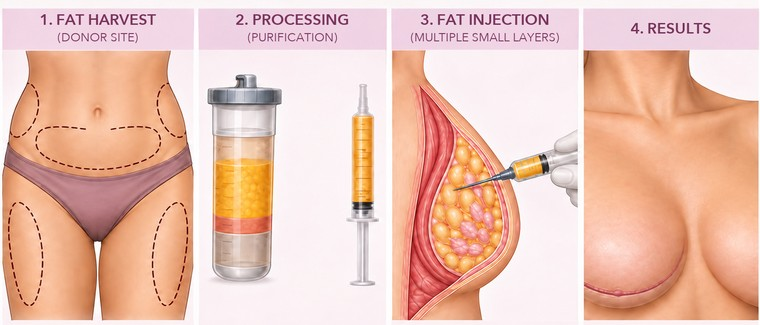
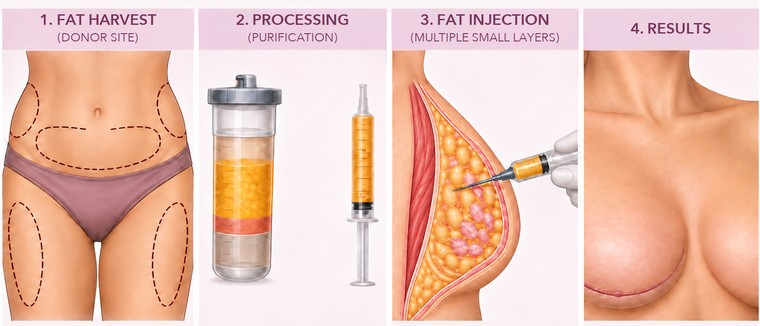
Rebuild fat grafting again: pectoral drawn as a layer, not a mass
The previous version drew the pectoral as a thick bulbous crescent
taking up a wedge of the chest, with the breast tissue squeezed into
the pocket left over. It is now a thin striated layer lying flat
against the chest wall, and the fat and glandular tissue fill the
breast properly down to the inframammary fold.

The slope correction from the last round survives: the skin band
measures a median of 10px against 9 before, with no bulge.

Geometry is unchanged again -- 1651x953, panels within a pixel of the
last file, bars still at y 24-114 -- so the headers were drawn by the
same code with no refitting. That is three regenerations in a row
holding the template, which makes this a cheap loop to keep running if
anything else needs redrawing.

All three wordless sources are kept and excluded from the deploy. Each
fixed something the one before it got wrong, so none of them is purely
superseded as a reference.

diff --git a/index.html b/index.html
@@ -2245,7 +2245,7 @@
           <button type="button" class="recon-back" data-panel="panel-recon">&lsaquo; All options</button>
           <h2>Fat Grafting / Lipofilling</h2>
           <div class="recon-art">
-            <img src="images/recon-fatgrafting.jpg" alt="Four stages: fat harvest from the abdomen and thighs, purification in a canister, injection into the breast, and the final result" loading="lazy" width="760" height="325" />
+            <img src="images/recon-fatgrafting.jpg" alt="Four stages: fat harvest from the abdomen and thighs, purification in a canister, injection into the breast, and the final result" loading="lazy" width="760" height="326" />
           </div>
           <p class="recon-body">Fat is taken from elsewhere by gentle liposuction, purified, and injected in small amounts to smooth contours and improve shape. Several sessions are often needed, because some of the transferred fat is reabsorbed naturally.</p>
           <p class="recon-src">Sources: <a href="https://www.cancer.gov/types/breast/treatment/surgery/breast-reconstruction" target="_blank" rel="noopener">National Cancer Institute</a>; <a href="https://www.cancer.org/cancer/types/breast-cancer/reconstruction-surgery/breast-reconstruction-options.html" target="_blank" rel="noopener">American Cancer Society</a>.</p>
